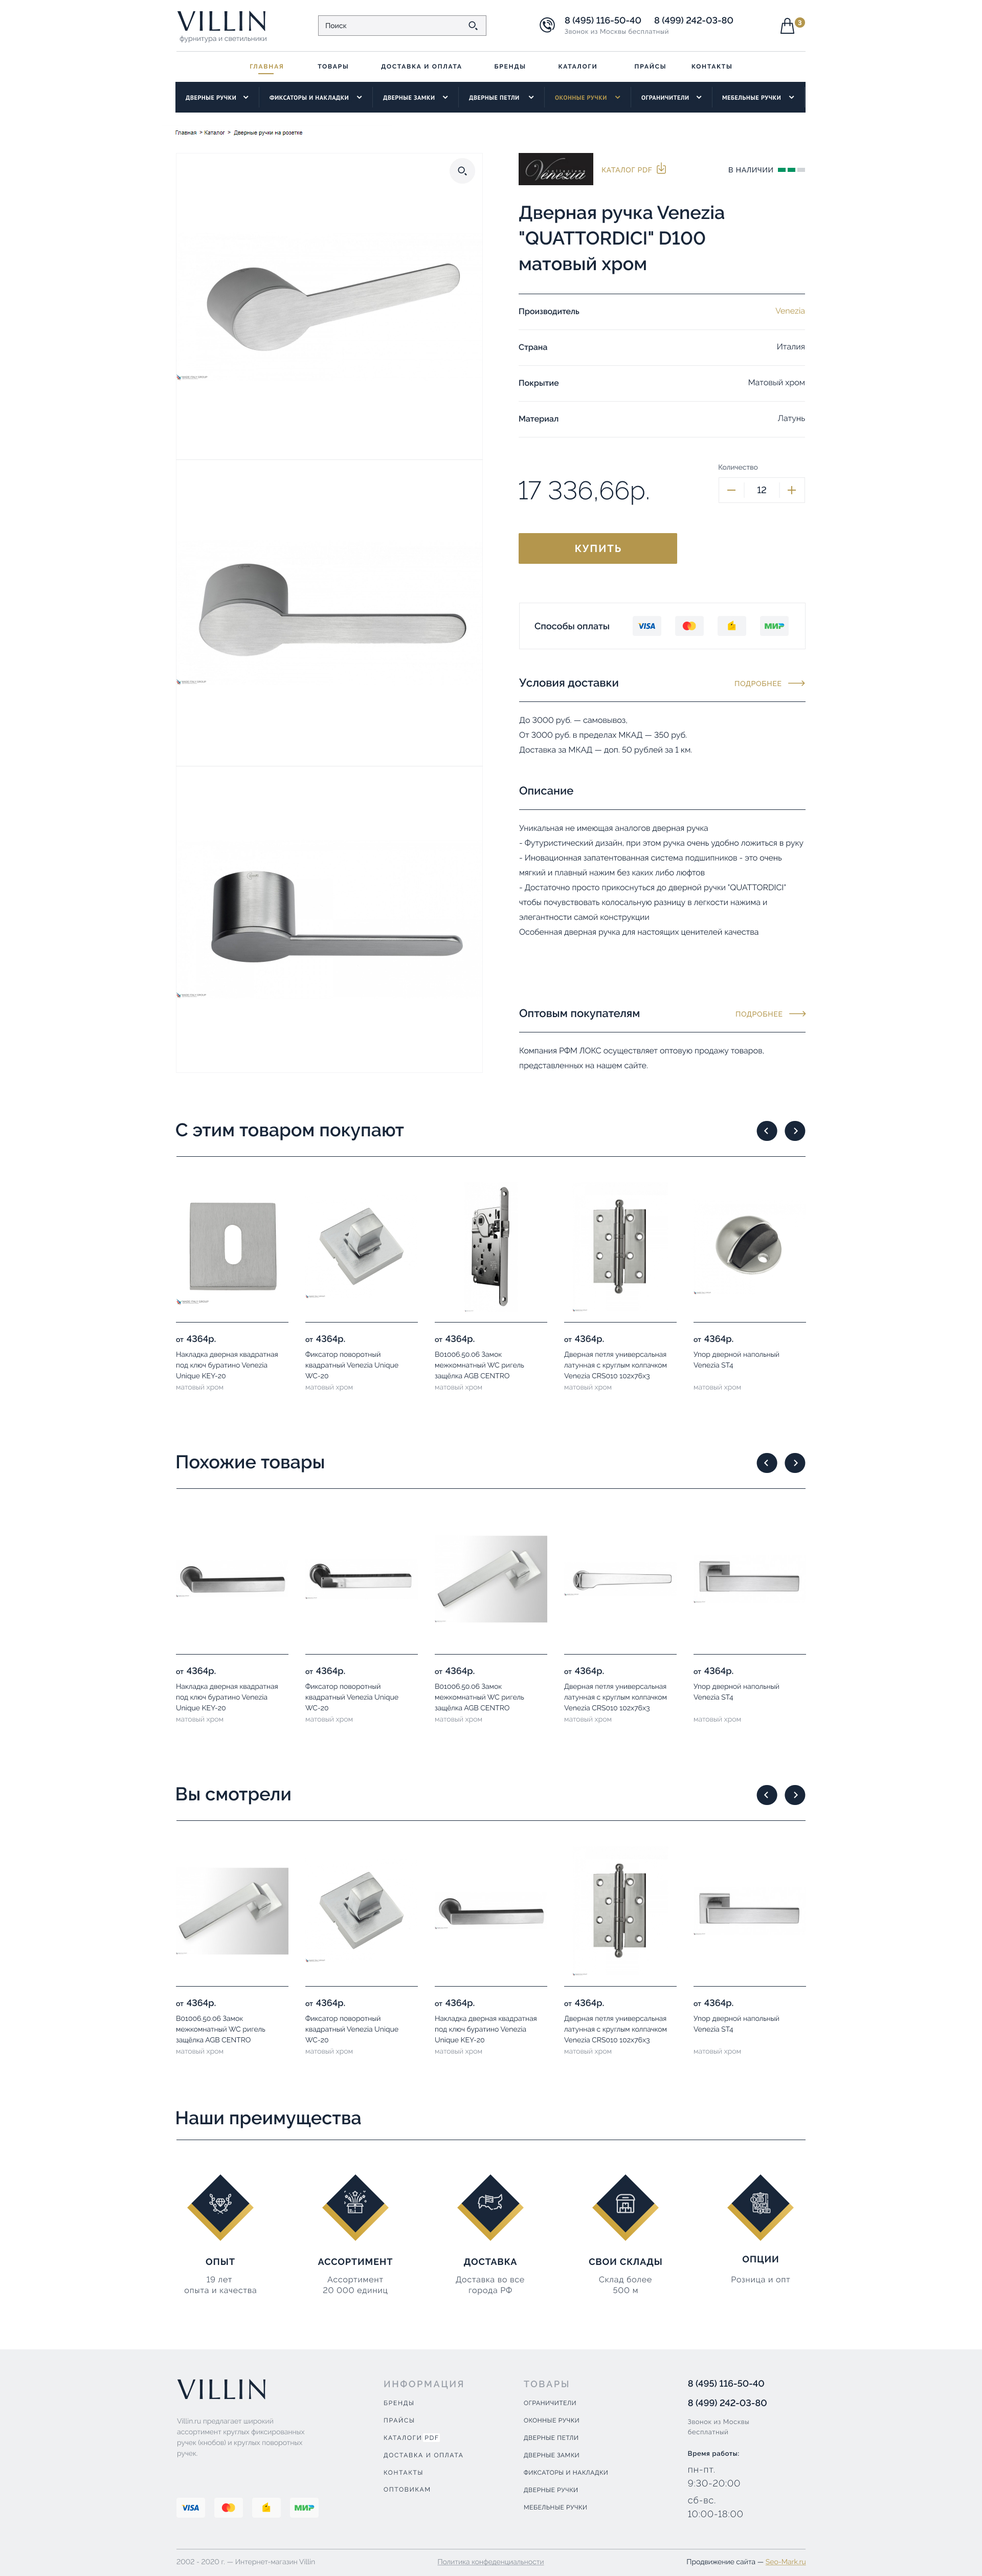
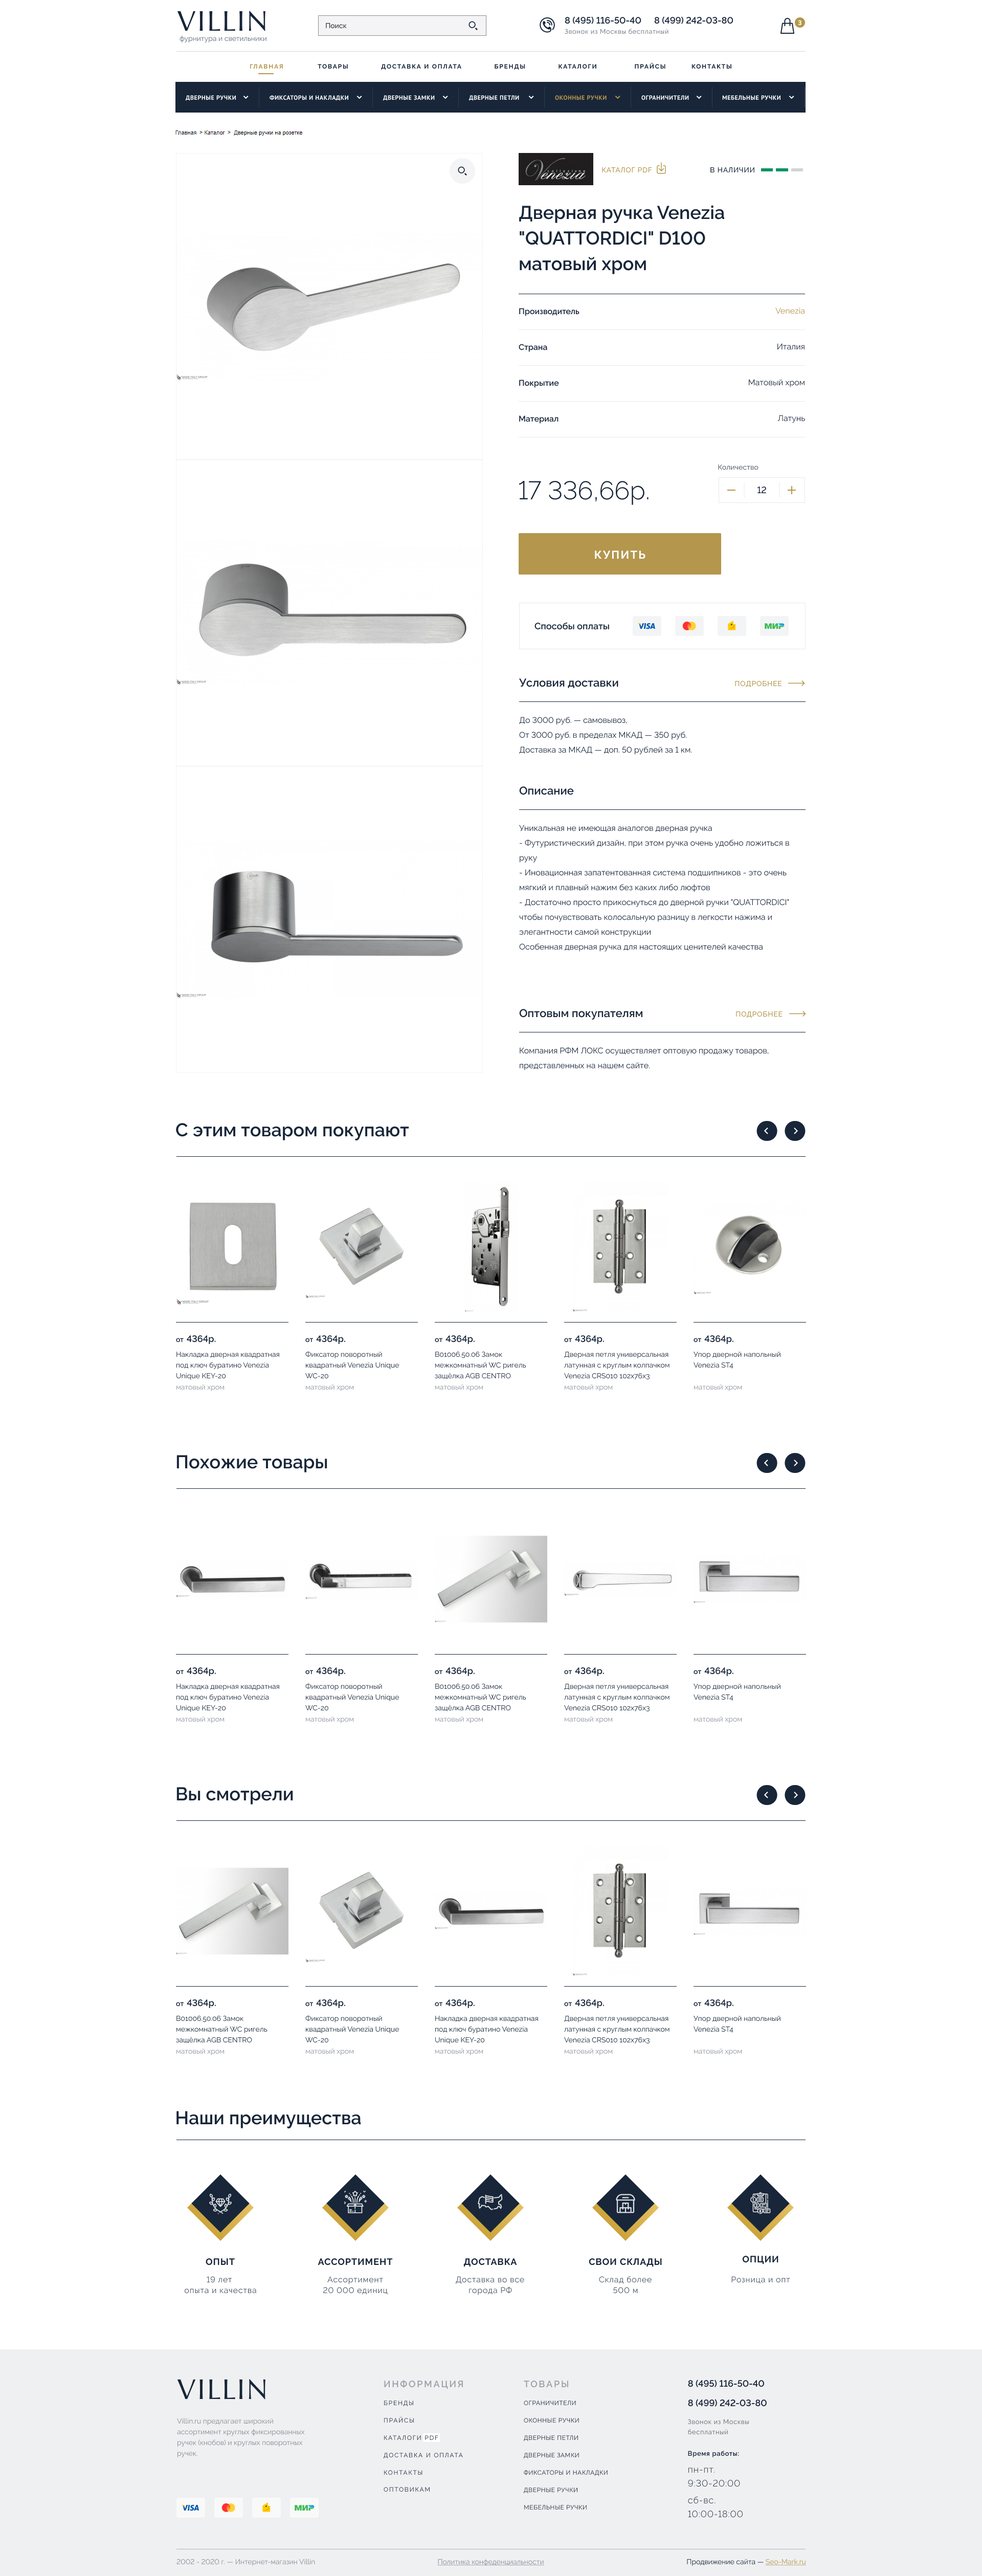
Product

diff --git a/less/blocks/mobile.less b/less/blocks/mobile.less
@@ -40,6 +40,19 @@
     margin-right: 0;
     justify-content: space-between;
   }
+  .product__imgs,
+  .product__info {
+    width: 48%;
+  }
+  .product__top {
+    flex-wrap: wrap;
+  }
+  .product__img {
+    height: 475px;
+  }
+  .product__payment .payment__item {
+    margin-left: 10px;
+  }
 }
 //--------------------------------------------
 @media (max-width: 1022px) {
@@ -166,6 +179,13 @@
     background-image: url(../img/icons/icon-menu-cross-white.svg);
     background-size: 24px 24px;
   }
+  .product__columns {
+    flex-direction: column-reverse;
+  }
+  .product__imgs,
+  .product__info {
+    width: 100%;
+  }
 }
 
 //--------------------------------------------
@@ -210,6 +230,37 @@
   }
   .footer__block {
     width: 50%;
+  }
+  .product__top {
+    flex-direction: column;
+    align-items: flex-start;
+  }
+  .product__download {
+    margin-left: 0;
+    margin-top: 20px;
+    margin-bottom: 20px;
+  }
+  .product__presence {
+    margin-left: 0;
+  }
+  .product__price {
+    font-size: 36px;
+  }
+  .product__payment {
+    display: block;
+  }
+  .product__payment .payment__item {
+    margin-top: 10px;
+    margin-left: 0;
+    margin-right: 15px;
+  }
+  .similar__prev,
+  .similar__next {
+    bottom: 0;
+    top: auto;
+  }
+  .similar .wrapper {
+    padding-bottom: 50px;
   }
 }
 
@@ -274,5 +325,40 @@
   }
   .header-new__phones a {
     display: block;
+  }
+  .product__title {
+    font-size: 24px;
+    line-height: 1.2;
+  }
+  .product__table {
+    font-size: 14px;
+  }
+  .product__wrap {
+    flex-direction: column;
+    align-items: center;
+  }
+  .product__price {
+    margin-bottom: 20px;
+  }
+  .product__payment {
+    padding: 15px;
+  }
+  .product__header {
+    display: block;
+    position: relative;
+    padding-bottom: 10px;
+    margin-bottom: 40px;
+    
+    .more {
+      position: absolute;
+      top: 120%;
+      right: 0;
+    }
+  }
+  .product__img {
+    height: auto;
+  }
+  .similar .title-2 {
+    padding-bottom: 10px;
   }
 }

diff --git a/less/blocks/product.less b/less/blocks/product.less
@@ -1,5 +1,5 @@
 .product {
-  margin-bottom: 100px;
+  margin-bottom: 80px;
 }
 
 .product__wrap,
@@ -105,6 +105,7 @@
 .product__table {
   width: 100%;
   margin-bottom: 50px;
+  margin-top: 35px;
   font-size: 16px;
   border-collapse: collapse;
   border-top: 1px solid #182639;
@@ -136,7 +137,7 @@
 
 .product__wrap {
   align-items: flex-end;
-  margin-bottom: 59px;
+  margin-bottom: 55px;
 }
 
 .product__price {
@@ -196,8 +197,8 @@
 }
 
 .product__btn {
-  width: 396px;
-  height: 81px;
+  width: 395px;
+  height: 80px;
   max-width: 100%;
   margin-bottom: 55px;
   font-weight: bold;
@@ -221,7 +222,7 @@
 }
 
 .product__block {
-  margin-top: 50px;
+  margin-top: 60px;
   font-size: 16px;
   line-height: 1.8;
   
@@ -239,7 +240,8 @@
   display: flex;
   justify-content: space-between;
   align-items: center;
-  padding-bottom: 21px;
+  padding-bottom: 18px;
+  margin-bottom: 20px;
   border-bottom: 1px solid #182639;
 }
 
@@ -252,6 +254,8 @@
 .more {
   position: relative;
   display: block;
+  padding-right: 45px;
+  padding-top: 5px;
   font-weight: 500;
   font-size: 14px;
   line-height: 1;
@@ -261,18 +265,14 @@
   text-decoration: none !important;
   .transition();
   
-  span {
-    display: inline-block;
-    vertical-align: middle;
-  }
-  
   &::after {
     content: "\2192";
-    display: inline-block;
-    vertical-align: middle;
-    margin-left: 10px;
+    position: absolute;
+    top: 50%;
+    right: 0;
+    transform: translateY(-50%);
     color: inherit;
-    font-size: 20px;
+    font-size: 30px;
     line-height: 1;
   }
   

diff --git a/product.html b/product.html
@@ -261,7 +261,7 @@
             <div class="product__block">
               <div class="product__header">
                 <p class="product__subtitle">Условия доставки</p>
-                <a href="#" class="more"><span>Подробнее</span></a>
+                <a href="#" class="more">Подробнее</a>
               </div>
               <p>До 3000 руб. — самовывоз,<br>От 3000 руб. в пределах МКАД — 350 руб.<br>Доставка за МКАД — доп. 50 рублей за 1 км.</p>
             </div>
@@ -274,7 +274,7 @@
             <div class="product__block">
               <div class="product__header">
                 <p class="product__subtitle">Оптовым покупателям</p>
-                <a href="#" class="more"><span>Подробнее</span></a>
+                <a href="#" class="more">Подробнее</a>
               </div>
               <p>Компания РФМ ЛОКС осуществляет оптовую продажу товаров, представленных на нашем сайте.</p>
             </div>

diff --git a/less/blocks/similar.less b/less/blocks/similar.less
@@ -1,11 +1,12 @@
 .similar {
-  margin-bottom: 120px;
+  margin-bottom: 95px;
   
   .wrapper {
     position: relative;
   }
   .title-2 {
-    margin-bottom: 10px;
+    padding-bottom: 30px;
+    margin-bottom: 20px;
   }
 }
 
@@ -17,11 +18,23 @@
   box-sizing: border-box;
   position: relative;
   height: auto;
+  
+  .hit__img {
+    height: 305px;
+  }
+  
+  &:hover,
+  &:active {
+    .hit__title {
+      color: @gold;
+      .transition();
+    }
+  }
 }
 
 .similar__prev,
 .similar__next {
-  top: 0;
+  top: 5px;
   margin-top: 0;
   width: 40px;
   height: 40px;
@@ -46,4 +59,13 @@
 
 .similar__next {
   right: 15px;
+}
+
+.breadcrumbs {
+  padding: 0;
+  margin-bottom: 30px;
+}
+
+.breadcrumbs__link {
+  font-size: 12px;
 }
